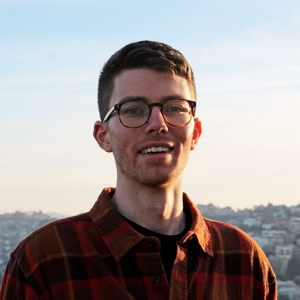
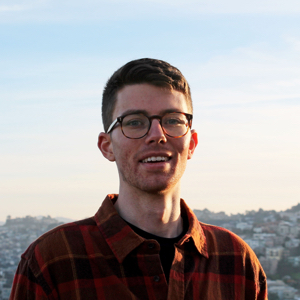
content change

diff --git a/css/style.css b/css/style.css
@@ -77,16 +77,21 @@ header {
     color: #dedede;
 }
 
+.sidebar span a {
+    font-size: 1.5em;
+}
+
 .sidebar img {
     justify-content: center;
     max-width: 250px;
     border-radius: 50%;
     margin-top: 20px;
+    box-shadow: 0 15px 35px rgba(50,50,93,.1), 0 5px 15px rgba(0,0,0,.07);
 }
 
 header .description {
     flex: 1 1 60%;
-    padding: 60px 4em;
+    padding: 60px 40px;
     display: flex;
     flex-direction: column;
     justify-content: center;
@@ -96,7 +101,7 @@ header .description {
 section {
     display: flex;
     flex-flow: row wrap;
-    padding: 80px 20px;
+    padding: 80px 40px;
 }
 
 .wrap-reverse {
@@ -105,8 +110,8 @@ section {
 }
 
 .project-description {
-    flex: 1 1 50%;
-    padding: 20px;
+    flex: 1 0 50%;
+    padding: 40px;
 }
 
 .project-img {
@@ -142,4 +147,17 @@ footer a:hover {
     -ms-transform: translateY(-2px);
     -o-transform: translateY(-2px);
     transform: translateY(-2px);
+}
+
+/* Media Queries */
+
+@media screen and (max-width: 480px) {
+
+    section {
+        padding: 80px 20px;
+    }
+
+    .project-description {
+        padding:40px 20px;
+    }
 }

diff --git a/index.html b/index.html
@@ -22,7 +22,13 @@
 
             <header>
                 <div class="sidebar">
-                    <div><img src="images/me.jpg"></div>
+                    <div><img srcset="
+                    images/me4x.jpg 4x,
+                    images/me3x.jpg 3x,
+                    images/me2x.jpg 2x,
+                    images/me.jpg 1x
+                    " 
+                    src="images/me.jpg"></div>
                     <h1>Steven Warner</h1>
                     <h4><a href="mailto:hi@stevenwarner.me">email me</a></h4>
                     <span>
@@ -32,7 +38,7 @@
                     </span>
                 </div>
                 <div class="description">
-                    <h1>Hi, I'm Steve</h1>
+                    <h1>Hi there</h1>
                     <h3>I'm a web developer in San Francisco working for Wells Fargo.</h3>
                     <p>I like playing guitar, petting dogs and eating gluten free pizza.</p>
                 </div>
